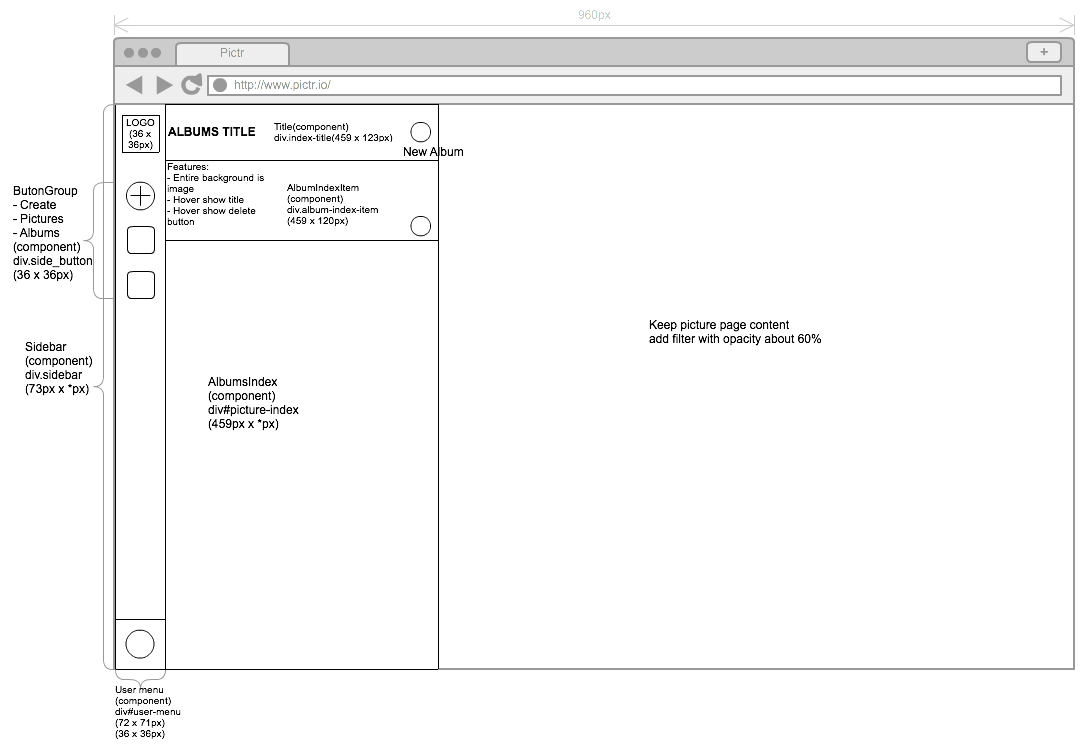
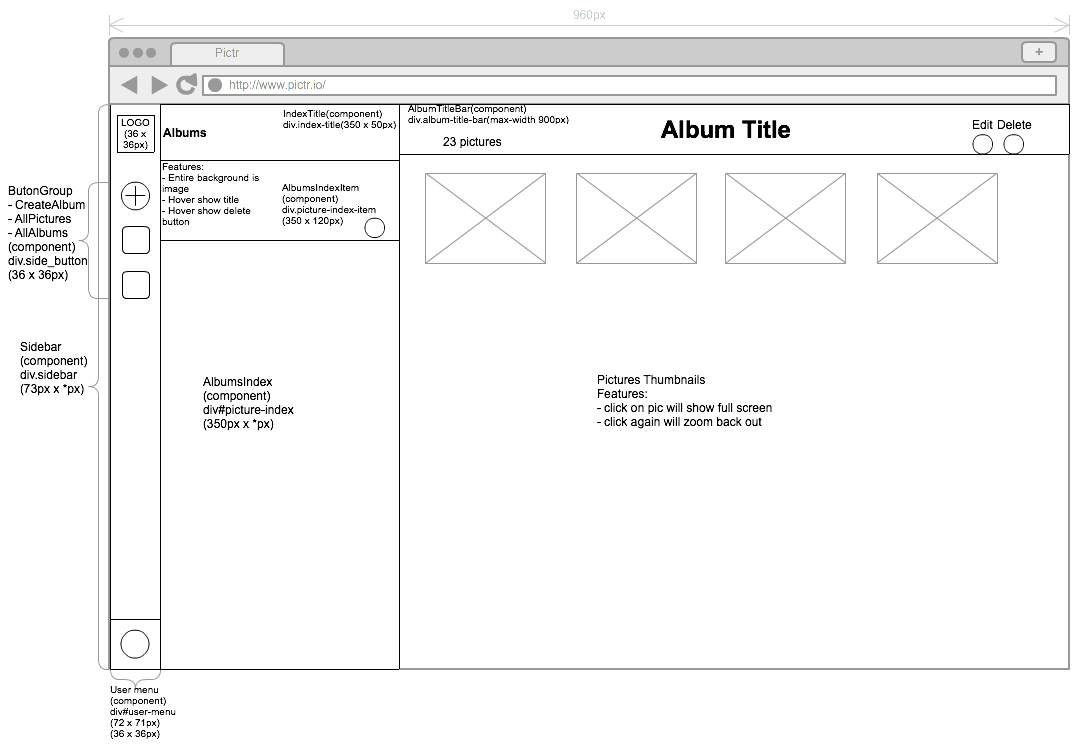
chnaged design

diff --git a/docs/impl_details/phase_2.md b/docs/impl_details/phase_2.md
@@ -1,0 +1,40 @@
+# Phase 2: MVP Frontend Flux 1, Pictures CRUD (1.5 days)
+
+## Rails
+Possible adjustment on rich text handling and extracting image
+http://stackoverflow.com/questions/20925143/how-to-save-image-from-rich-text-editor
+
+## Flux
+### Views (React Components)
+* SideBar
+  * CreatePictureButton
+  * GotoPicturesButton
+  * GotoAlbumsButton (mockup only)
+
+* PicturesIndex
+  * PicturesIndexTitle
+  * PicturesIndexTitleSubBar
+  * PictureIndexItem
+
+* PictureShow
+  * 
+
+### Actions
+* CreatePicture
+* DeletePicture
+* UpdatePicture
+* FetchAllPictures
+* FetchOnePicture
+
+### Stores
+* PictureStore
+
+### ApiUtil
+* createPicture
+* deletePicture
+* updatePicture
+* FetchAllPictures
+* FetchOnePicture
+
+## Gems/Libraries
+* quilljs

diff --git a/README.md b/README.md
@@ -29,3 +29,16 @@ blank page, which will be the main app page.
 
 * [Details][phase_1]
 [phase_1]: ./docs/impl_details/phase_1.md
+
+### Phase 2: MVP Frontend Flux 1, Pictures CRUD (2 days)
+In phase 2, an unstyled picture index page must be finished with basic 
+layout structure. User should be able to navigate through a list of
+pictures, and perform basic CRUD actions (including complex text style).
+At this stage, new user will be provided a default album.
+
+* [Details][phase_2]
+[phase_2]: ./docs/impl_details/phase_2.md
+
+### Phase 3: MVP Frontend Flux 2, Albums CRUD, and Styling (1.5 day)
+Phase 3 focuses on finishing basic MVP, and making alubms index page
+available with Flux. After that, first stage CSS styling will be applied.

diff --git a/docs/views.md b/docs/views.md
@@ -6,15 +6,14 @@
 ## Sign up / Sign in Page
 ![sign_up]
 
-## Pictures Index / Album View Page
-This page is shown immidiately after user login.
-Album view is when user select a album, only shows pictures of the specific album.
-![pic_index]
-
 ## Albums Index Page
+This page is shown immidiately after user login.
 ![album_index]
+
+## Albums New / Edit Page
+![album_new_edit]
 
 [landing_page]: ./wireframes/landing_page.png
 [sign_up]: ./wireframes/sign_up.png
-[pic_index]: ./wireframes/picture_index.png
 [album_index]: ./wireframes/album_index.png
+[album_new_edit]: ./wireframes/album_new_edit.png

diff --git a/docs/db_schema.md b/docs/db_schema.md
@@ -14,9 +14,9 @@ notebook_id | integer   | not null, foreign key (references notebooks), indexed
 column name | data type | details
 ------------|-----------|-----------------------
 id          | integer   | not null, primary key
-author_id   | integer   | not null, foreign key (references users), indexed
+description | text      |
 title       | string    | not null
-description | string    | 
+author_id   | integer   | not null, foreign key (references users), indexed
 
 ### users
 column name     | data type | details
